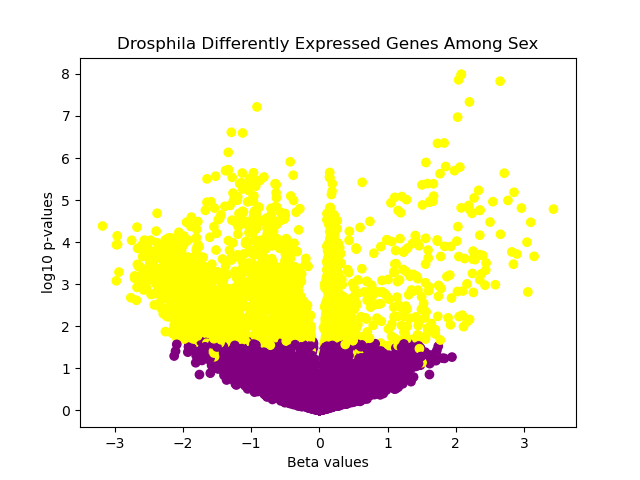
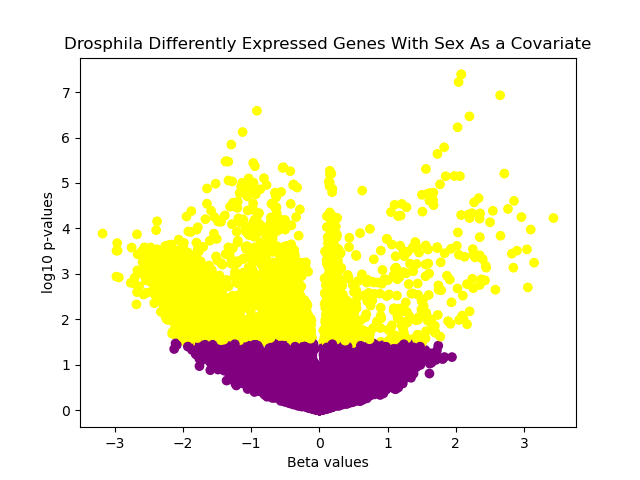
updated the volcano plot and README.md

diff --git a/week9-homework/rnaseq.py b/week9-homework/rnaseq.py
@@ -127,9 +127,14 @@ np.savetxt('p_values.txt', p_values)
 
 np.savetxt('beta_values.txt', beta_values)
 
+np.savetxt('p_values_sex.txt', p_values_sex)
+
+np.savetxt('beta_values_sex.txt', beta_values_sex)
+
 # print(p_values)
 # print(beta_values)
 logpvals = (np.log10(p_values))* -1
+logpvals_sex = (np.log10(p_values_sex))* -1
 # print(max(logpvals))
 
 colors_v = []
@@ -141,10 +146,10 @@ for i in mut_tests_sex[0]:
         
 
 fig, ax = plt.subplots()
-plt.scatter(beta_values, logpvals, c = colors_v)
+plt.scatter(beta_values_sex, logpvals_sex, c = colors_v)
 plt.xlabel('Beta values')
 plt.ylabel('log10 p-values')
-plt.title('Drosphila Differently Expressed Genes Among Sex')
+plt.title('Drosphila Differently Expressed Genes With Sex As a Covariate')
 plt.savefig('Volcano_Plot.png')
 plt.show()
 

diff --git a/week9-homework/README.md b/week9-homework/README.md
@@ -15,6 +15,7 @@ yes, we do want it to compare to a normal distribution but the distribution shou
 2.5 Answer: list in diff_exp_transcripts_sex.txt
 
 2.6 Answer: 92.28177641653905 = ((3013 / 3265) * 100)
+			7.718223583 = (((3013-3265)/ 3265) * 100) 
 
 
 
